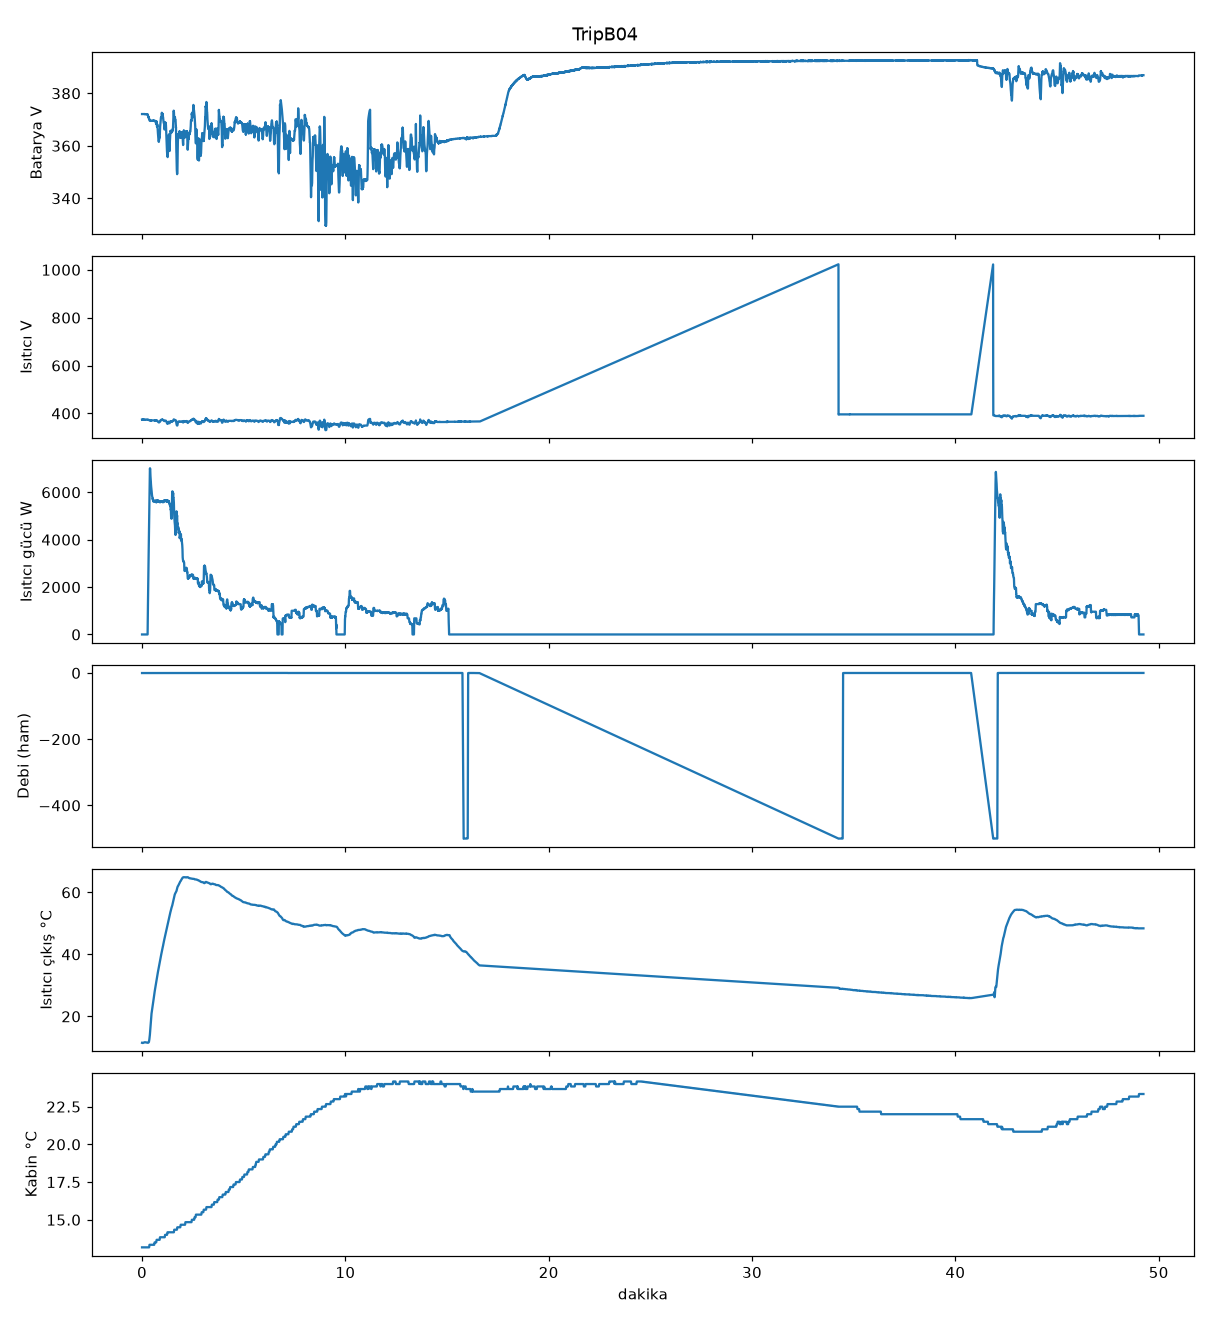
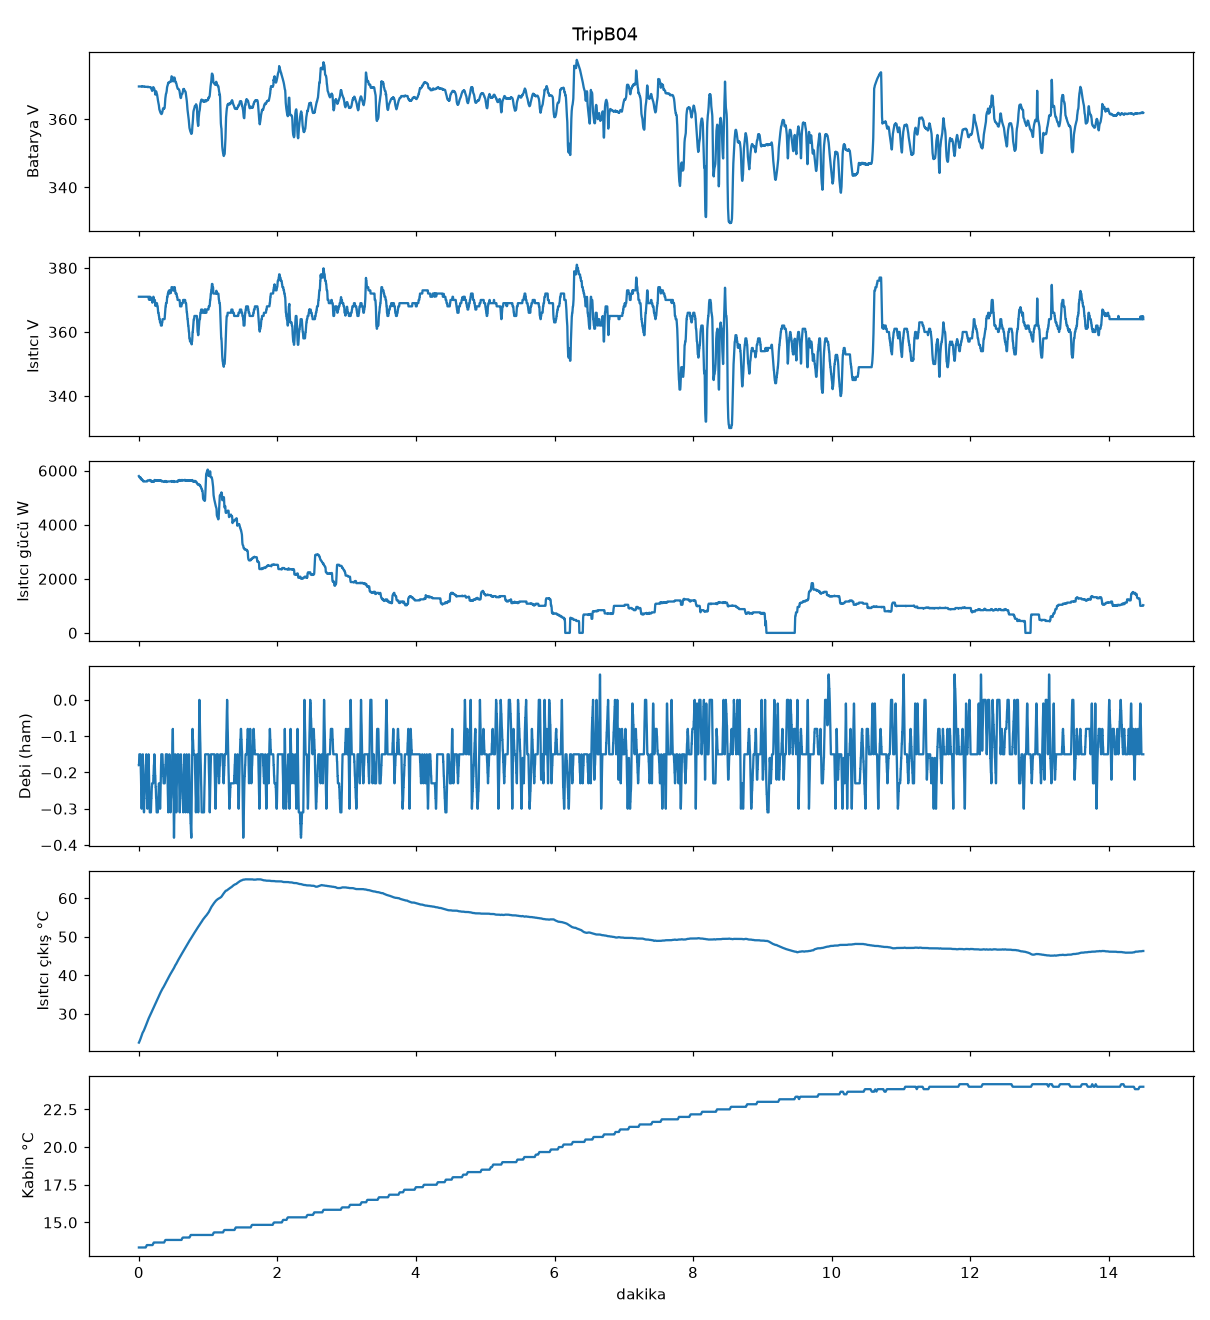
.

diff --git a/plot_b02_raw.py b/plot_b02_raw.py
@@ -1,0 +1,35 @@
+import os
+import pandas as pd
+import matplotlib.pyplot as plt
+
+
+d = pd.read_csv("data/B_winter/TripB02.csv", sep=";", encoding="cp1252")
+d.columns = d.columns.str.replace(r"\s+", " ", regex=True).str.strip()
+
+
+d = d[d["Time [s]"] >= 30].reset_index(drop=True)
+
+def kolon(bas):
+    # Derece işareti bozuk olsa bile kolonu adının başından bulur
+    return [c for c in d.columns if c.startswith(bas)][0]
+
+cols = [
+    (kolon("Battery Voltage"), "Batarya V"),
+    (kolon("Heater Voltage"), "Isıtıcı V"),
+    (kolon("Heating Power LIN"), "Isıtıcı gücü W"),
+    (kolon("Coolant Volume Flow"), "Debi (ham)"),
+    (kolon("Temperature Coolant Heater Outlet"), "Isıtıcı çıkış °C"),
+    (kolon("Cabin Temperature Sensor"), "Kabin °C"),
+]
+
+t = d["Time [s]"] / 60
+fig, ax = plt.subplots(len(cols), 1, figsize=(11, 12), sharex=True)
+for a, (c, etiket) in zip(ax, cols):
+    a.plot(t, d[c])
+    a.set_ylabel(etiket)
+ax[-1].set_xlabel("dakika")
+fig.suptitle("TripB02 (temizlik öncesi)")
+plt.tight_layout()
+os.makedirs("reports", exist_ok=True)
+plt.savefig("reports/TripB02_once.png", dpi=110)
+plt.show()
